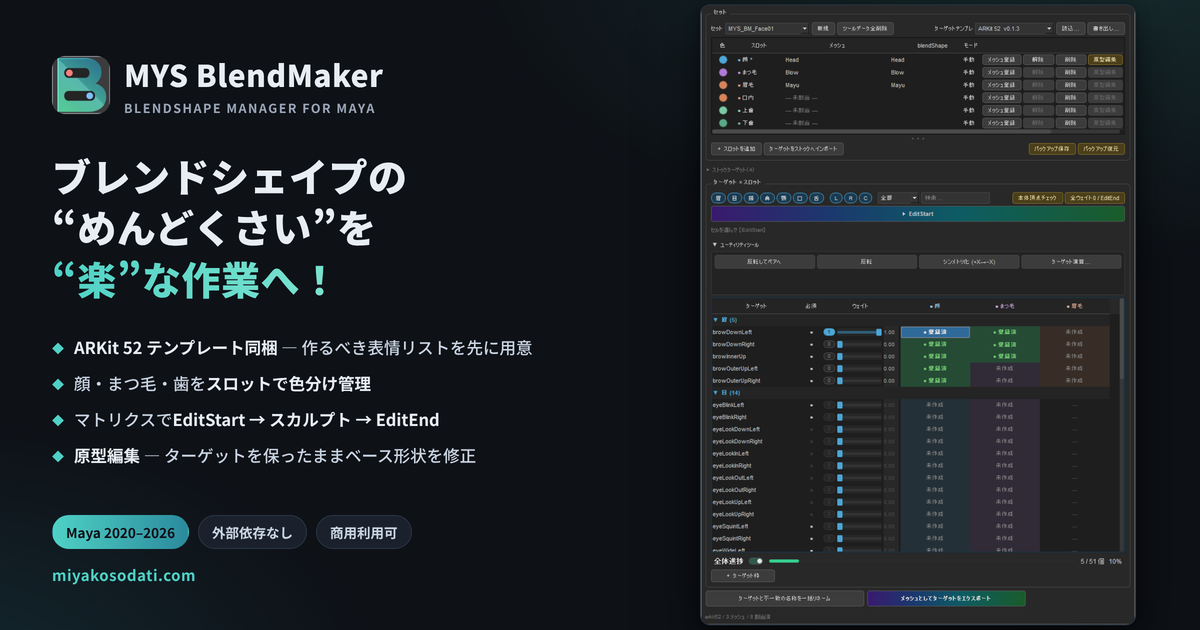
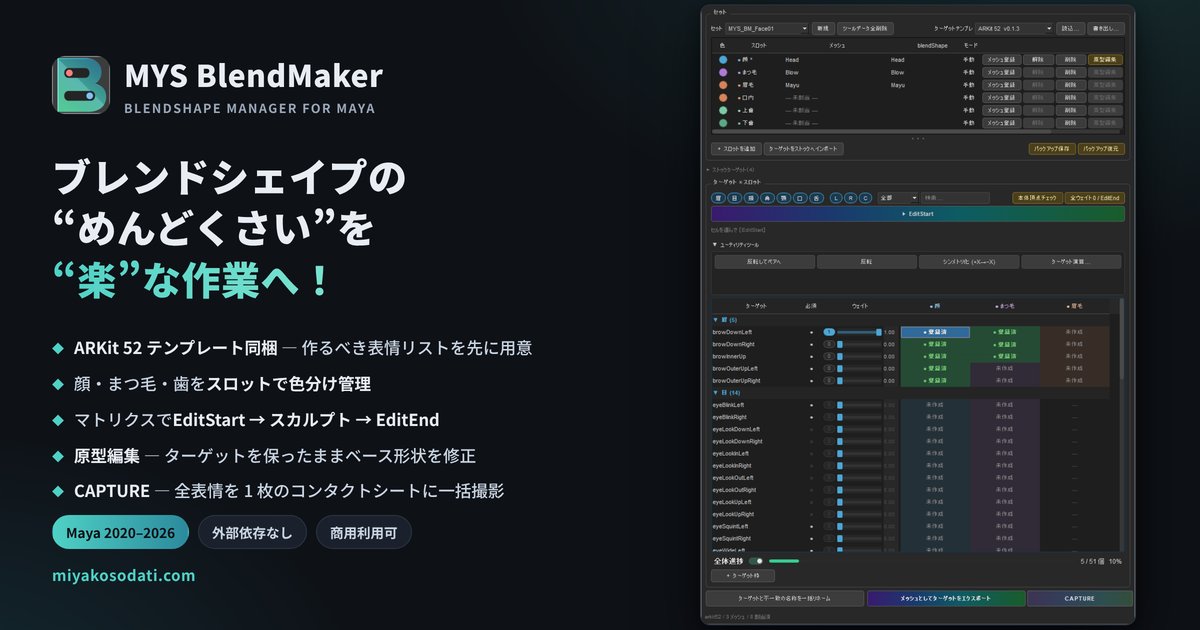
BlendMaker v1.2.2: CAPTURE contact sheet, backup restore improvements

Changed region(s): [[0.0617, 0.754, 0.4317, 0.8143], [0.8325, 0.9349, 0.9558, 0.9651]]

diff --git a/tools/blendmaker/index.html b/tools/blendmaker/index.html
@@ -27,7 +27,7 @@
 
   <div class="tool-head">
     <div class="crumb"><a href="/">MYS Tools</a> / BlendMaker</div>
-    <h1>MYS BlendMaker <span style="font-size:16px;color:var(--tx3)">v1.1.0</span></h1>
+    <h1>MYS BlendMaker <span style="font-size:16px;color:var(--tx3)">v1.2.2</span></h1>
     <div class="tag">フェイシャルを中心としたブレンドシェイプ制作を、テンプレート × マトリクスで1ウィンドウ管理</div>
     <div class="badges">
       <span class="bd dcc">Maya 2020–2026</span>
@@ -36,7 +36,7 @@
       <span class="bd">無償・商用利用可</span>
     </div>
     <div class="dl-row">
-      <a class="dl-btn" href="https://github.com/miyakosodati/miyakosodati.github.io/releases/download/blendmaker-v1.1.0/MYS_BlendMaker_v1.1.0.zip">ダウンロード（v1.1.0）</a>
+      <a class="dl-btn" href="https://github.com/miyakosodati/miyakosodati.github.io/releases/download/blendmaker-v1.2.2/MYS_BlendMaker_v1.2.2.zip">ダウンロード（v1.2.2）</a>
       <div class="dl-note">ダウンロード・使用により<a href="/eula/">使用許諾契約（EULA）</a>に同意したものとみなされます。社外への再配布はできません。</div>
     </div>
   </div>
@@ -50,6 +50,7 @@
     <li><strong>ターゲット × スロットのマトリクス</strong>でセルを選んで<strong>［EditStart］→ スカルプト →［EditEnd］</strong>。空ターゲットの作成からスカルプト編集モードの出入りまでボタン1つで、いま何個できていて残り何個かは<strong>進捗バー</strong>が教えてくれます。</li>
     <li>既にターゲットを持つメッシュも大丈夫。<strong>「ストックへインポート」で既存ターゲットや表情メッシュを取り込み</strong>、名称が一致するものはまとめて差し込めます。</li>
     <li><strong>ターゲット演算（合成・スケール・左右分割）</strong>をプレビュー付きで搭載。反転（左右を入れ替え）・シンメトリ化（片側を基準に対称化）、ターゲットのメッシュ書き出し、<strong>バックアップ保存 / 復元</strong>まで1ウィンドウで完結します。</li>
+    <li><strong>［CAPTURE］で全ターゲットを1枚のコンタクトシート（表情一覧画像）に一括撮影</strong>できます。各ターゲットをウェイト1.0（全スロット同時）で正面から順に撮影し、名前付きのグリッド画像として書き出し。監修・レビュー・進捗共有にそのまま使えます（カメラは正面自動フィット / 今のビューを選択可、未作成の枠は「未作成」コマに。撮影は非表示の専用パネルで行うため作業中の視点は動きません）。</li>
   </ul>
 
   <img class="figure" src="/assets/img/blendmaker/uimap.png" alt="MYS BlendMaker UI機能マップ — 各セクションの役割">
@@ -75,6 +76,7 @@
 
   <h2 class="sec">更新履歴</h2>
   <table class="spec">
+    <tr><th>v1.2.2（2026-10-26）</th><td>［CAPTURE］ボタンを追加。全ターゲット枠をウェイト1.0で順に撮影し、名前付きのコンタクトシート（表情一覧画像）1枚に書き出し（カメラ=正面自動フィット/今のビュー、1コマの大きさ・列数・ニュートラル先頭・1コマずつのPNG保存などのオプション付き。撮影は非表示パネルで行い作業中の視点は動かない）。バックアップ復元も改善し、復元先をフルパスで確認・同名メッシュが複数ある場合は復元先を選択可能に</td></tr>
     <tr><th>v1.1.0（2026-10-02）</th><td>「原型編集」モードを追加。スロット表の［原型編集］からベース形状をスカルプト編集し、「原型へ確定/破棄」を選択。確定すると作成済みターゲットは差分として新しい原型に追従（メッシュ接続中のターゲットにも反映）。※スキン済みはバインド形状が変わる・頂点数が変わる編集は対象外</td></tr>
     <tr><th>v1.0.8（2026-09-16）</th><td>Maya側でターゲットメッシュを接続したまま作られたblendShapeで、ターゲット演算やエクスポートの結果が古い形・空になる問題を修正（接続中のターゲットは接続メッシュから最新の形を読み取り）。接続中ターゲットへの書き込み操作は警告して中止するように</td></tr>
     <tr><th>v1.0.5（2026-09-15）</th><td>複数スロット登録時に進捗バーが0%のまま動かない問題と、取り込みで割り当てたターゲットのセルが「—」表示のままになる問題を修正。用語を「反転（左右を入れ替え）/シンメトリ化（片側を基準に対称化）」に統一し、頂点編集の文言を「原型に戻す」「平均化」に変更</td></tr>
